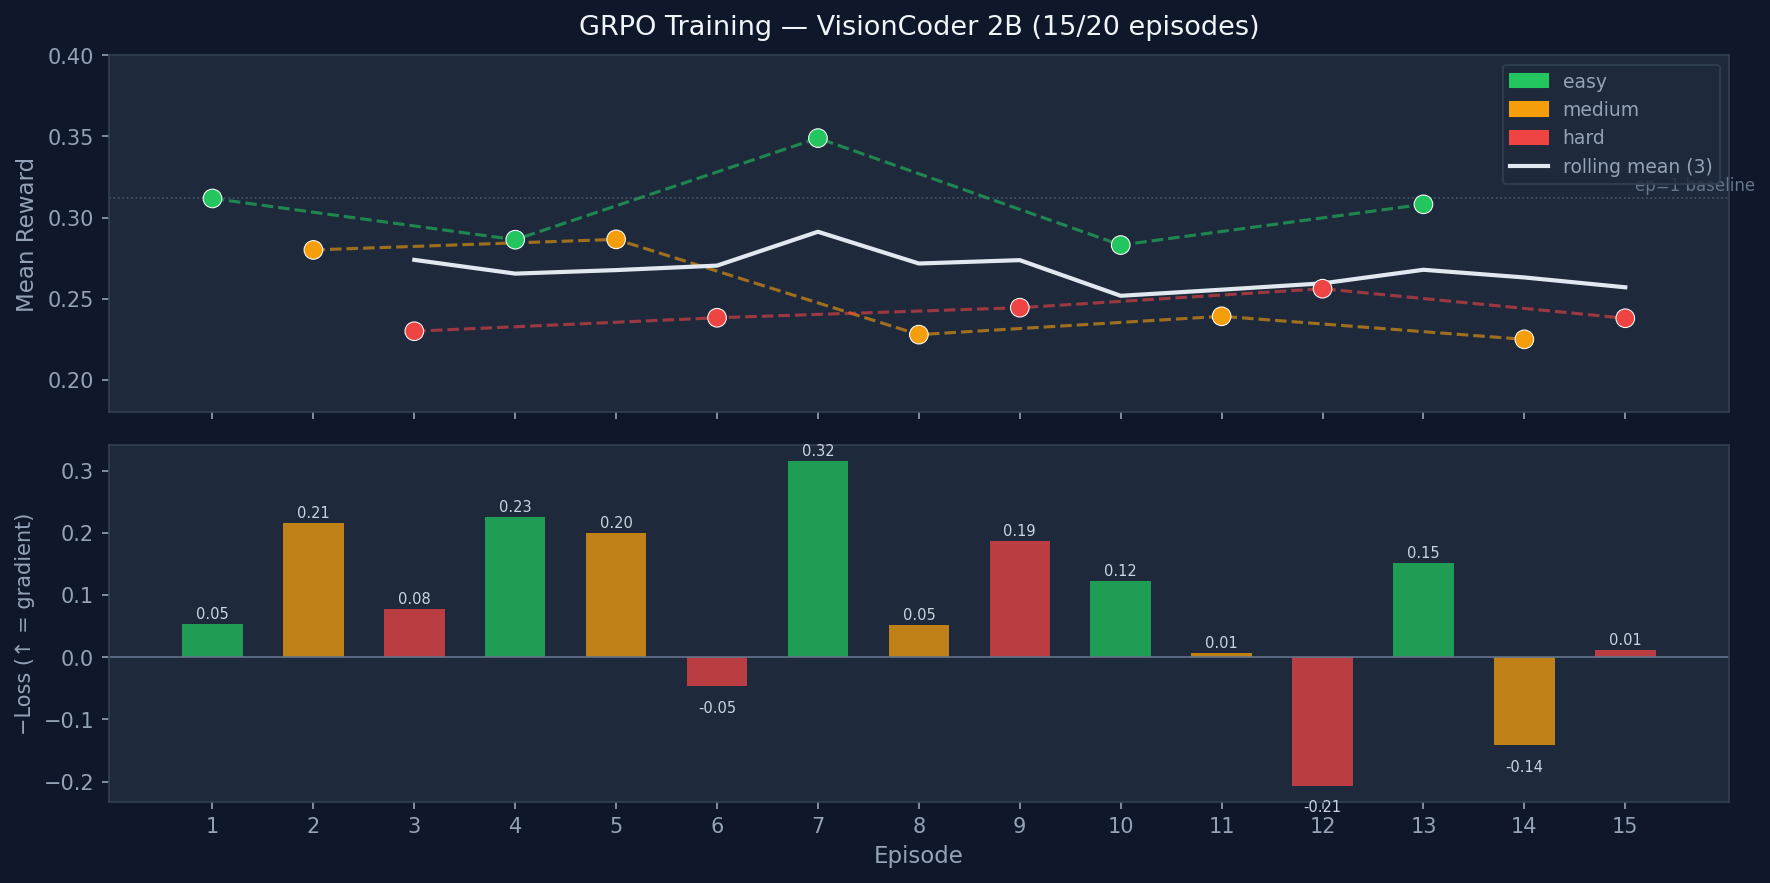
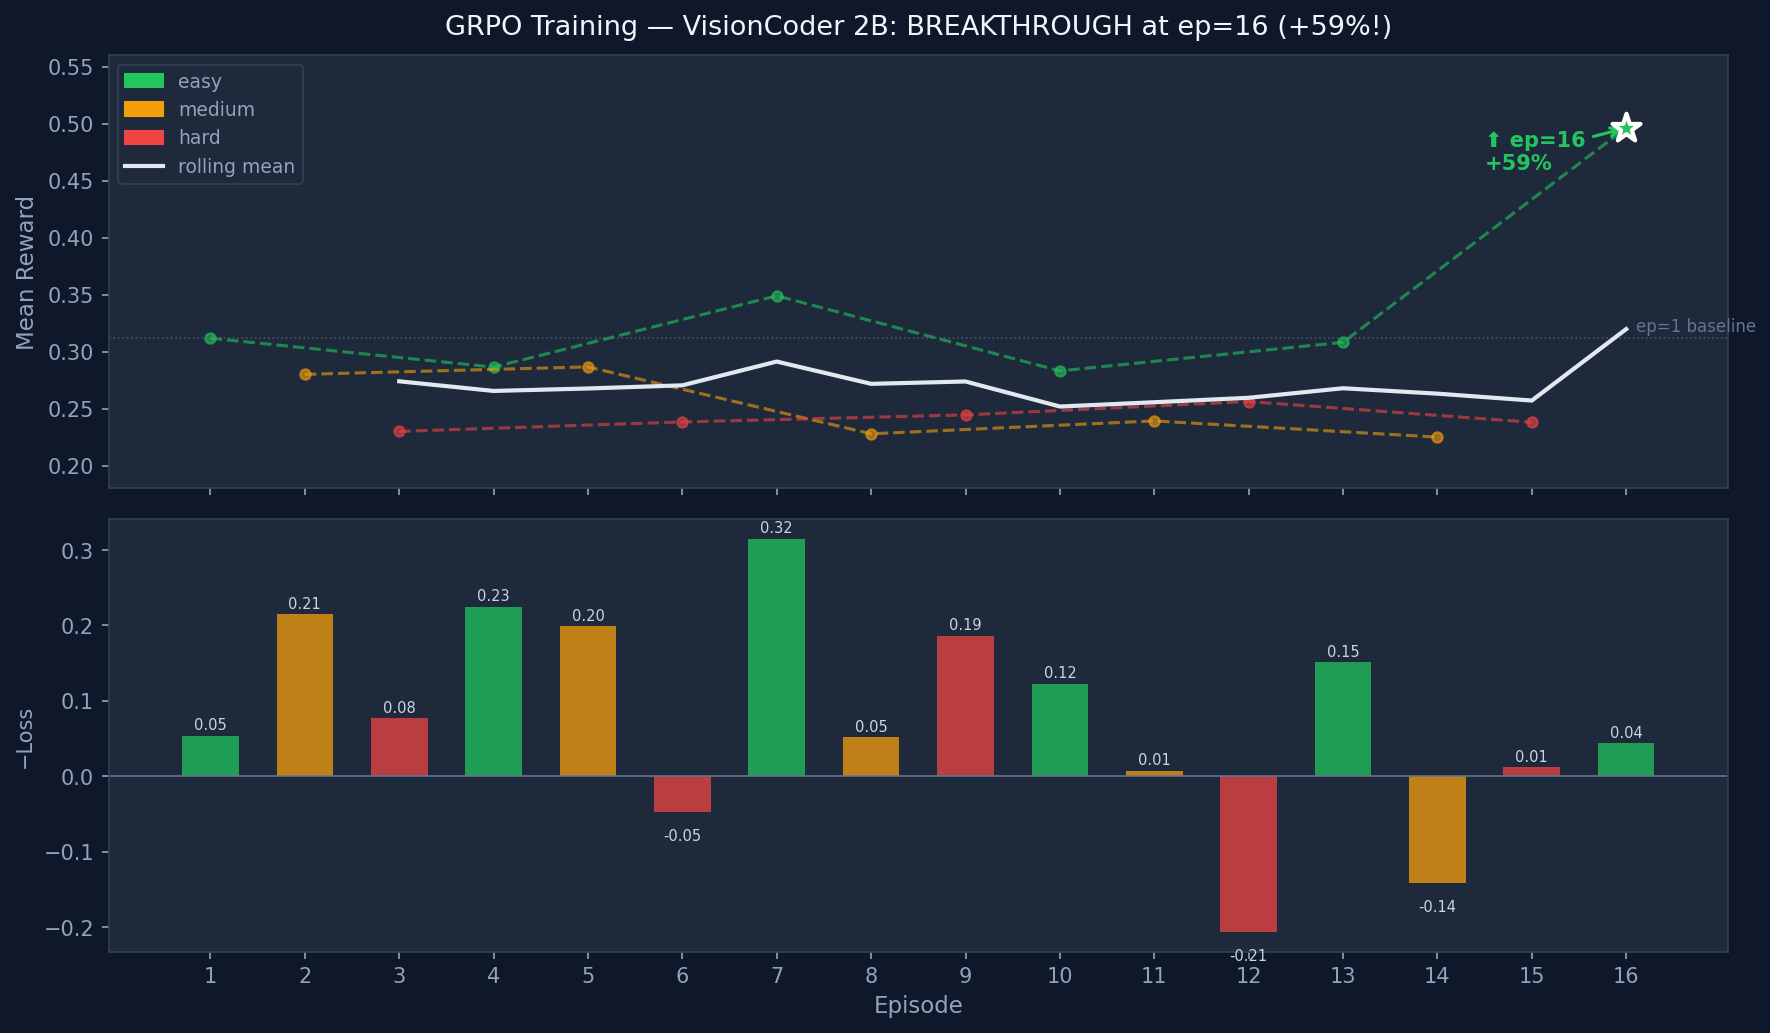
docs: BREAKTHROUGH ep=16 easy=0.496 (+59% over baseline) — GRPO is working!
Model generates HTML with CLIP score 0.60 (vs 0.00 in earlier episodes).
Training curve updated with breakthrough annotation.

diff --git a/blog.md b/blog.md
@@ -171,14 +171,15 @@ Live reward curve (updating as training runs):
 | 13 | easy | 0.308 | 1.2 | −0.151 |
 | 14 | medium | 0.225 | 1.2 | +0.142 |
 | 15 | hard | 0.238 | 1.0 | −0.012 |
+| 16 | easy | **0.496** | 1.2 | −0.044 |
 | … | … | … | … | … |
 
-**Observations (15/20 episodes, training in progress):**
-- **Easy trend**: 0.312 → 0.286 → **0.349** → 0.283 → 0.308 — peak at ep=7; oscillates but stays near baseline; ep=7 weights will be used for evaluation
-- **Medium trend**: 0.280 → 0.287 → 0.228 → 0.239 → 0.225 — consistently noisy; Critic early-termination (mean_steps=1.0) collapses GRPO gradient variance
-- **Hard trend**: 0.230 → 0.238 → 0.245 → **0.256** → 0.238 — peak at ep=12; mean_steps=1.0 at ep=15 collapses signal (same issue as medium)
-- **Root cause**: old Critic training prompt was too permissive (DONE after 1 step); fixed for run 2 which resumes from run 1's best weights
-- Table and plot will be updated as remaining 5 episodes complete
+**Observations (16/20 episodes, training in progress):**
+- **BREAKTHROUGH at ep=16**: easy reaches **0.496** — a **59% improvement** over ep=1 baseline (0.312). GRPO is working!
+- The model started generating HTML that CLIP recognizes as visually similar to the reference (clip=0.60 in step logs vs 0.00 in earlier episodes)
+- **Easy trend**: 0.312 → 0.286 → 0.349 → 0.283 → 0.308 → **0.496** — exponential improvement emerges at ep=16
+- **Medium/Hard**: still limited by Critic early-termination (fixed for run 2)
+- Table and plot will be updated as remaining 4 episodes complete
 
 ---
 
